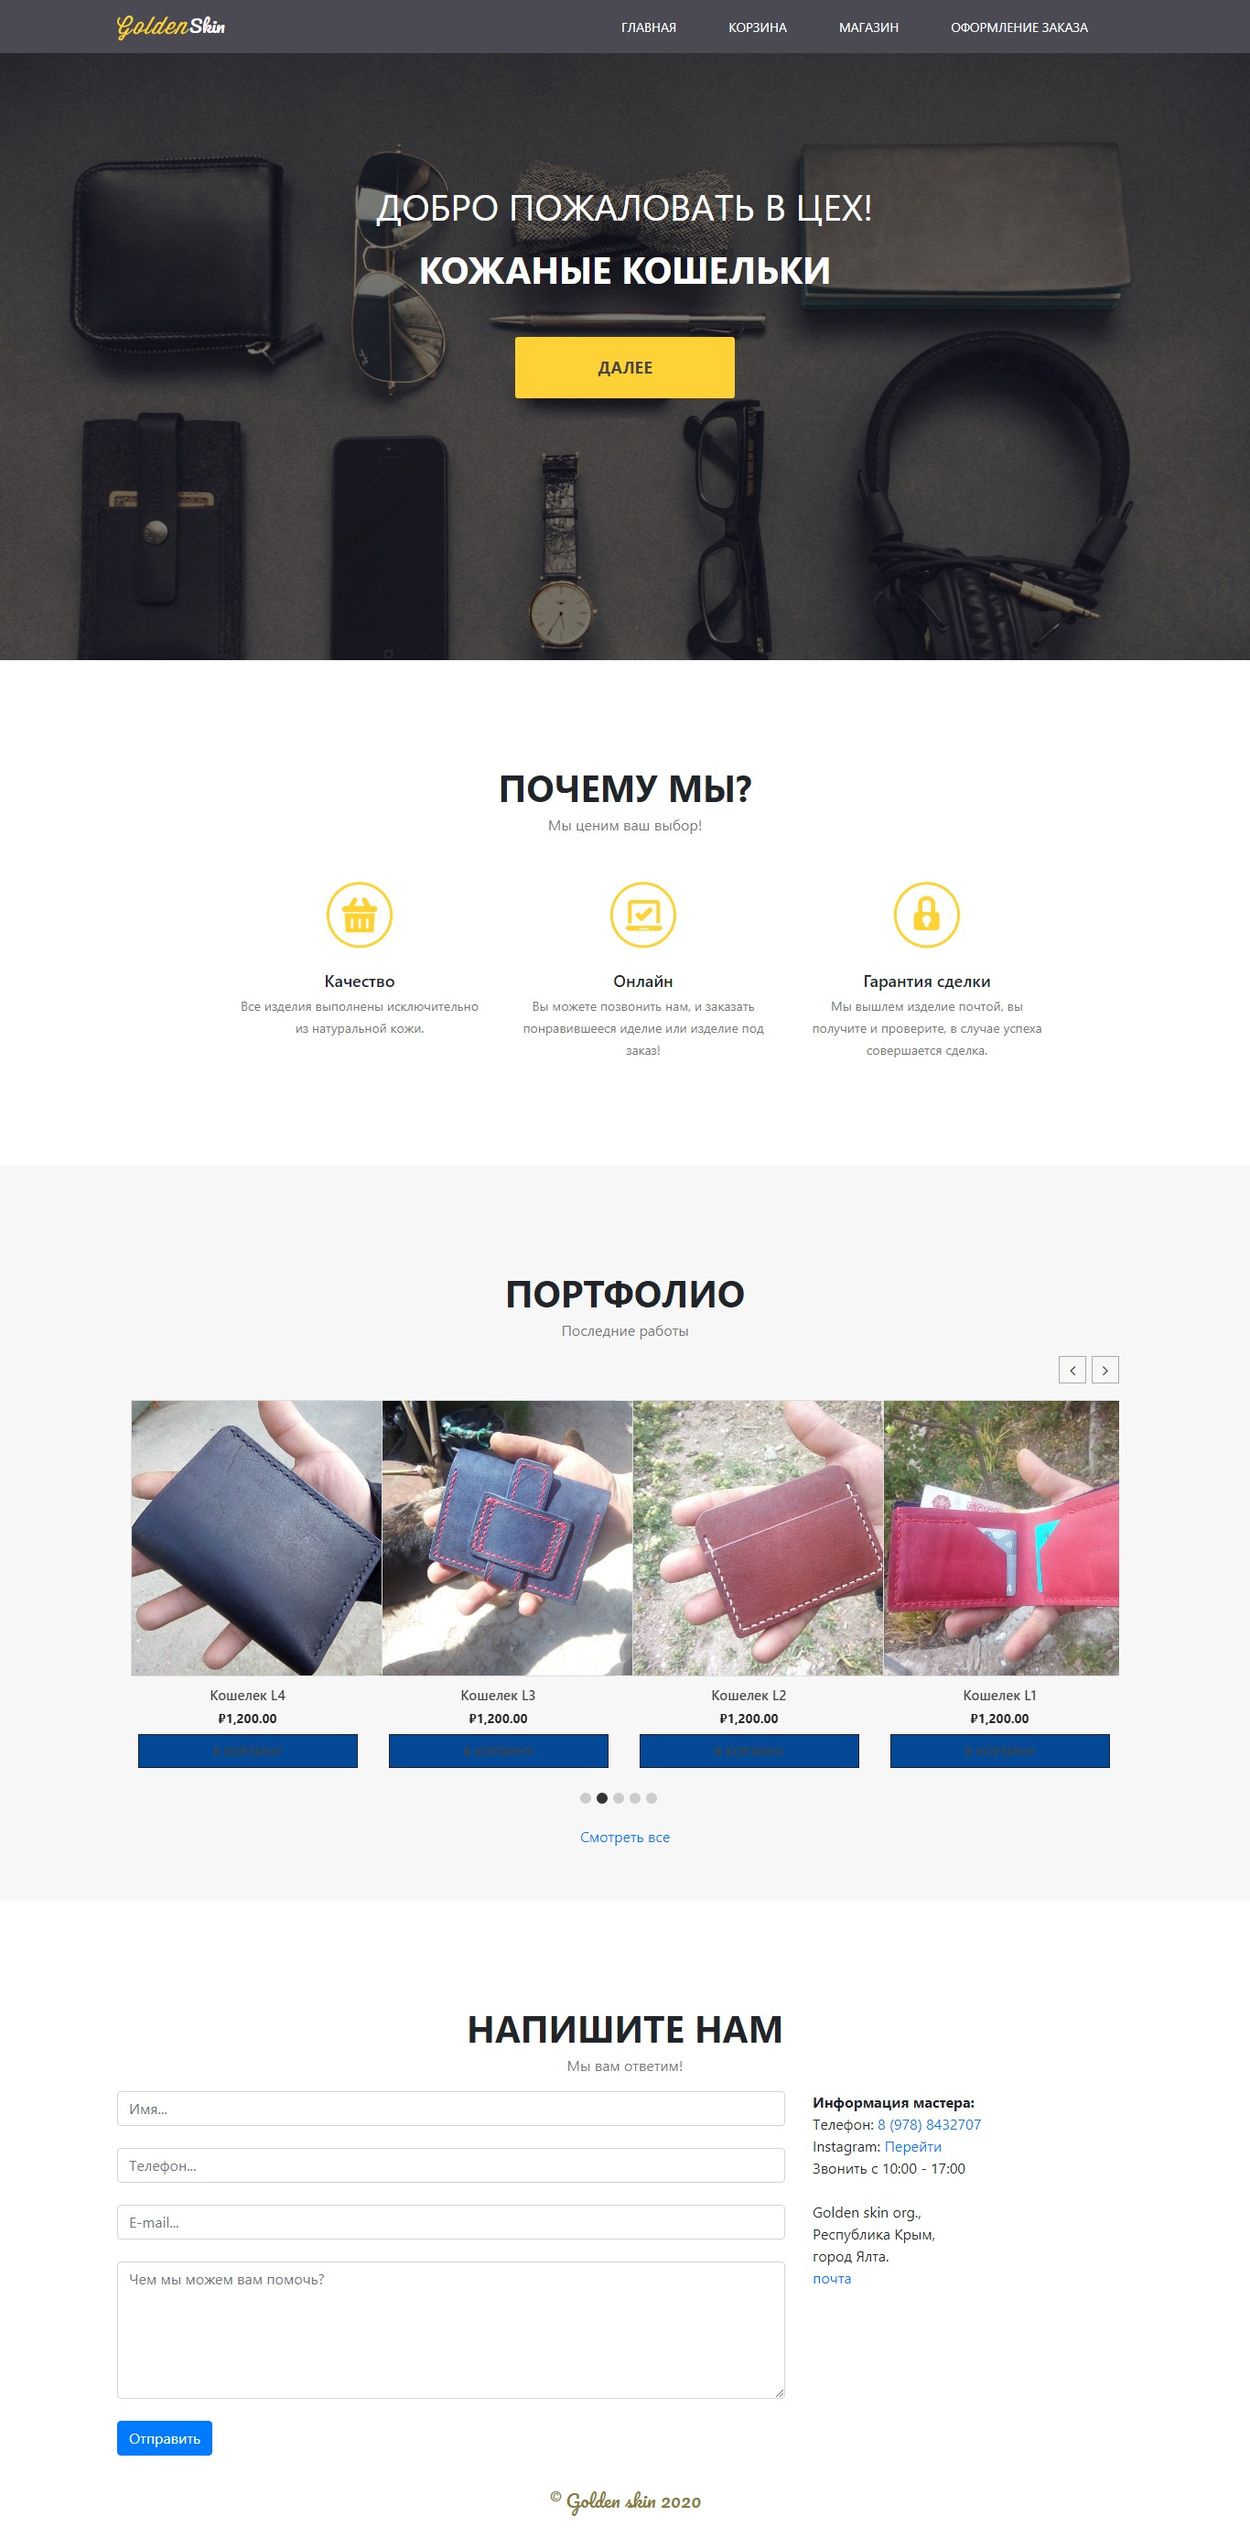
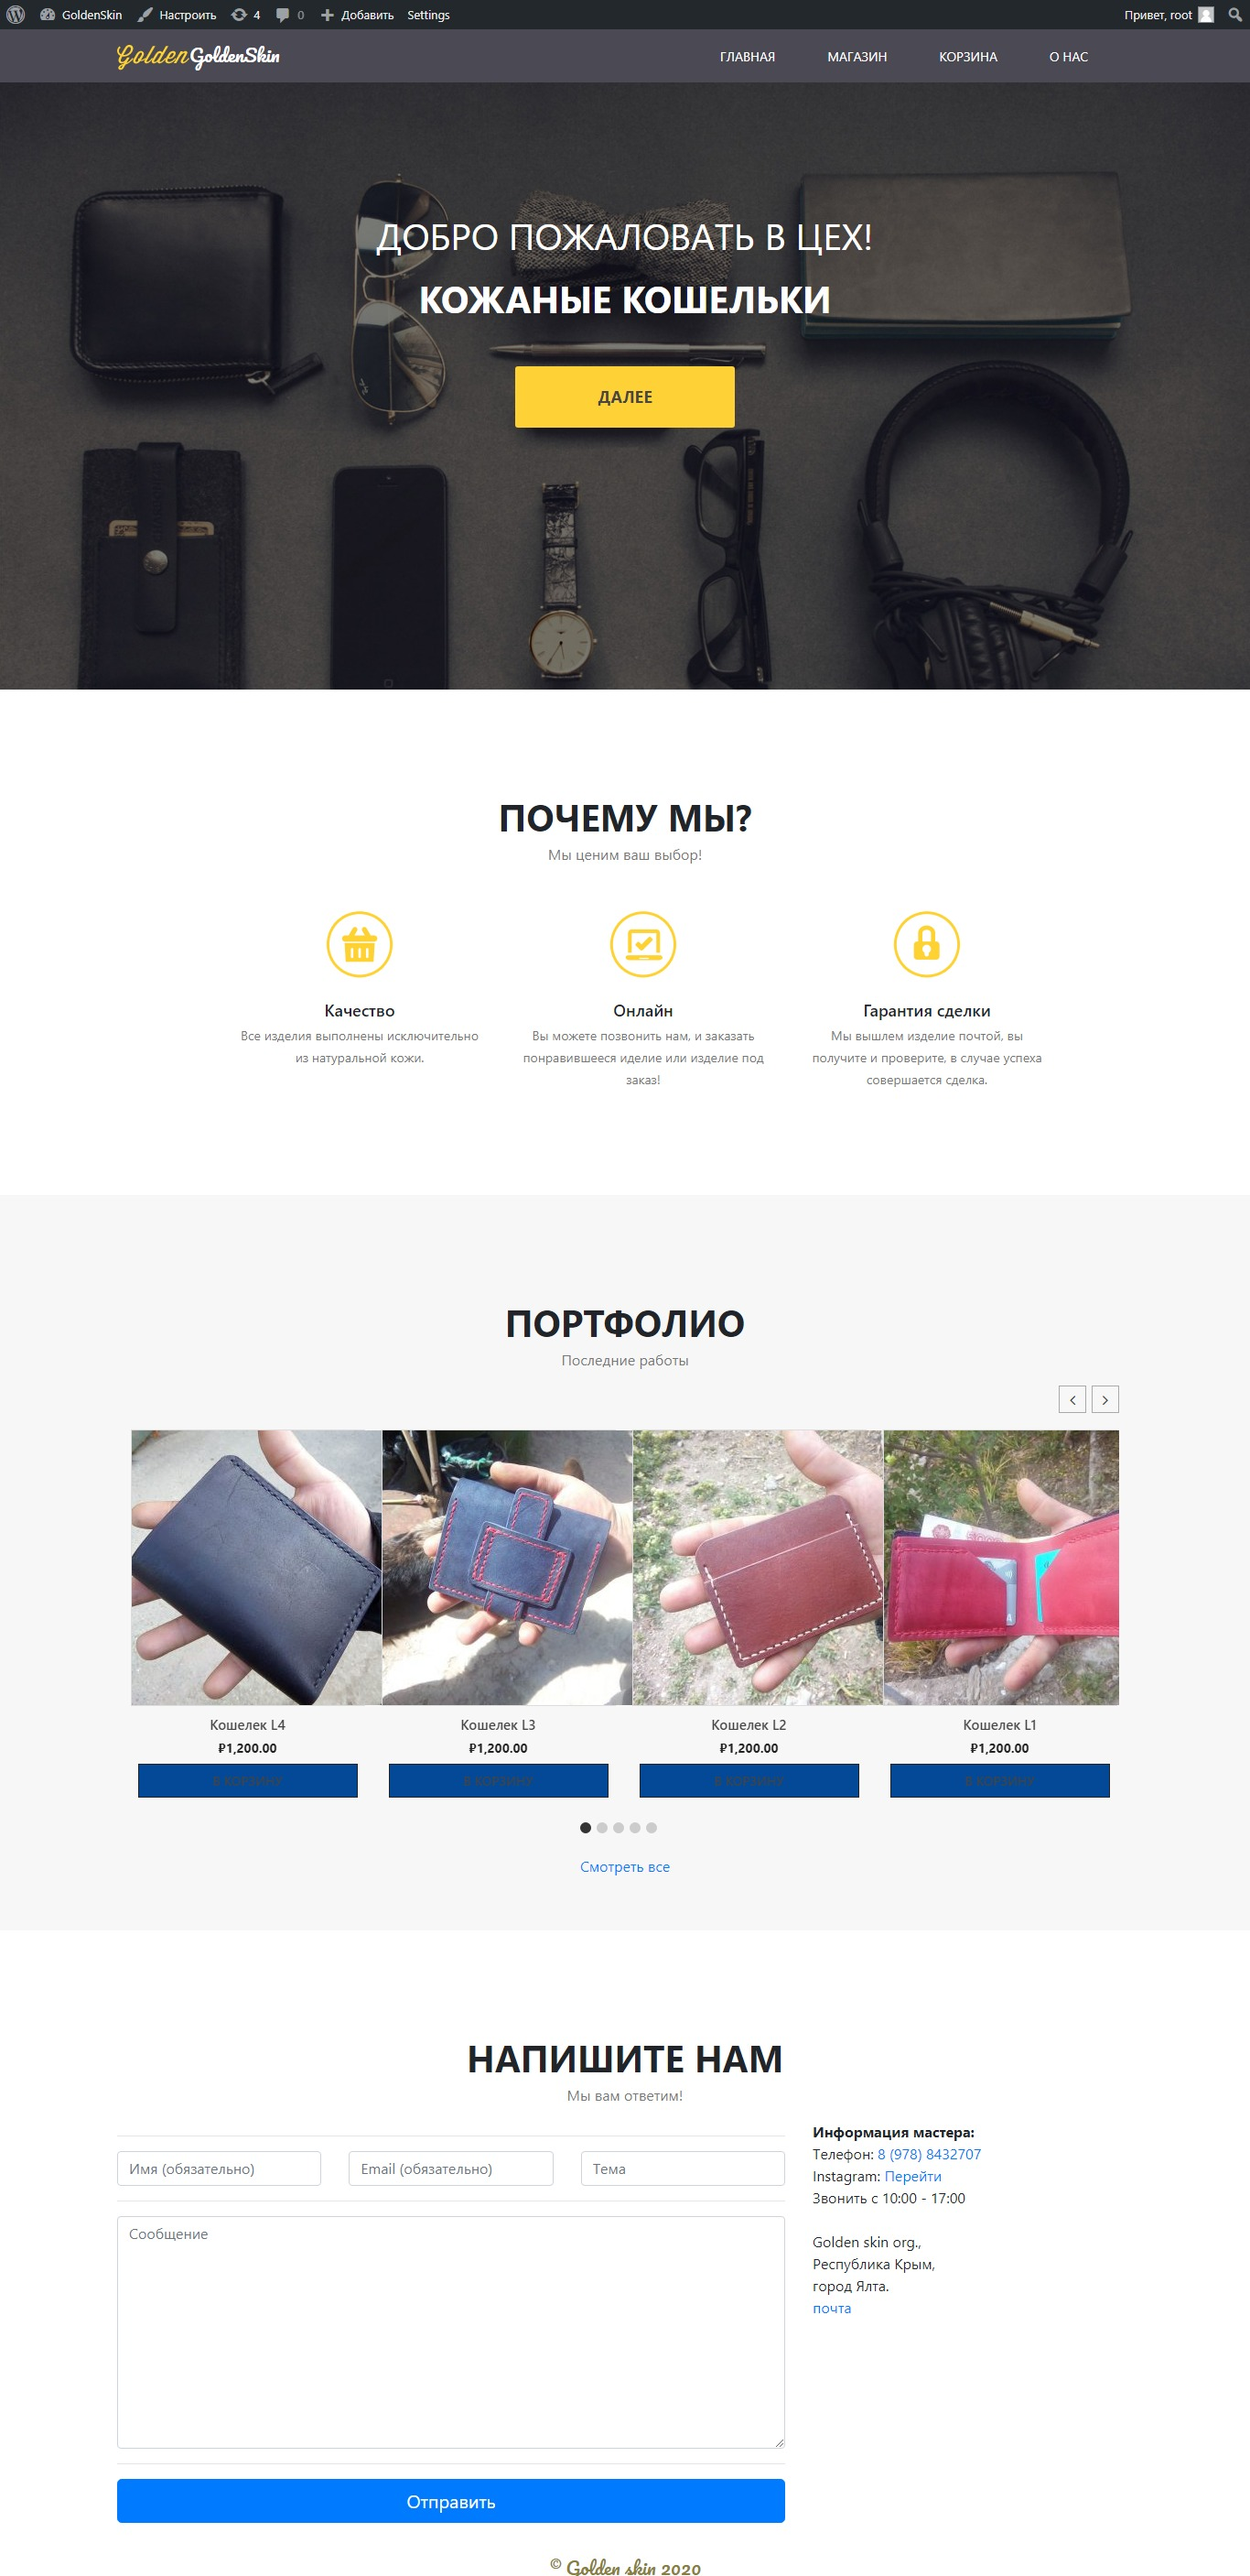
update comment style

diff --git a/style.css b/style.css
@@ -31,18 +31,11 @@ body {
   height: 100%;
   max-height: 1024px;
   background: url(assets/images/first-bg.jpg) no-repeat center top/cover; }
-div#navbarResponsive {
-    text-align: center;
-}
-div#navbarResponsive ul {
-    width: 100%;
-}
+
 .navbar ul a:hover{
     background-color: #4a4454;
 }
-div#navbarResponsive a.nav-link {
-    width: 100%;
-}
+
 footer {
   padding: 10px; }
 .navbar .container, #masthead
@@ -223,8 +216,58 @@ button.pswp__button, button.pswp__button--arrow--left::before, button.pswp__butt
   left: 0;
   z-index: 99999;
   margin: 10px; }
-
+  .post-navigation:after
+  {
+  content: "";
+  clear: both;
+  display: table;
+  }
+  .post-navigation {
+  font-size: 15px;
+    margin-bottom: 10px !important;
+}
+.post-navigation .nav-previous {
+    float: left;
+}
+.post-navigation .nav-next {
+    float: right;
+}
+.post-navigation .nav-previous,
+.post-navigation .nav-next {
+    padding: 5px 10px;
+    border: 1px solid #ccc;
+    border-radius: 5px;
+}
+@media (max-width:768px) {
+.post-navigation {
+  text-align: center;
+}
+.post-navigation .nav-previous,
+.post-navigation .nav-next {
+  float: none;
+    margin-bottom: 7px;
+}
+}
+@media screen and (max-width: 769px) and (min-width: 426px)
+{
+  li.nav-item {
+    float: left;
+}
+  .navbar-nav
+  {
+    display: block !important;
+  }
+}
 @media screen and (max-width: 600px) {
+  div#navbarResponsive a.nav-link {
+    width: 100%;
+}
+  div#navbarResponsive {
+    text-align: center;
+}
+div#navbarResponsive ul {
+    width: 100%;
+}
   .services__item {
     margin-left: 0px;
     width: 270px;
@@ -543,7 +586,6 @@ max-width: unset;
 .nav-links {
     margin: 0 auto;
     padding: 15px;
-    border-bottom: 1px solid gray;
 }
 .woocommerce #respond input#submit, .woocommerce a.button, .woocommerce button.button, .woocommerce input.button {
     width: 100%;
@@ -552,4 +594,54 @@ max-width: unset;
 .woocommerce .woocommerce-ordering select {
     padding: 5px;
     border-radius: 90px;
+}
+div#comments {
+    background-color: #eff5bd;
+    padding: 20px;
+    max-width: 1024px;
+    margin: 0 auto;
+}
+div#comments input {
+    width: 100%;
+}
+.page-numbers {
+  display: inline-block;
+  padding: 5px 10px;
+  margin: 0 2px 0 0;
+  border: 1px solid #eee;
+  line-height: 1;
+  text-decoration: none;
+  border-radius: 2px;
+  font-weight: 600;
+}
+.page-numbers.current,
+a.page-numbers:hover {
+  background: #f9f9f9;
+}
+@media screen and (max-width: 768px){
+.wpcf7 #Personal-Details, .wpcf7 #Education, .wpcf7 #Profession, .wpcf7 #To-Teach, .wpcf7 #Timings, .wpcf7 #Colscol, .wpcf7 #Upload {
+height:auto;
+padding: 20px;
+}
+#Teacher-column #left {
+width: 100%;
+float: none;
+margin-bottom: 20px;
+}
+
+.input-text, input[type=email], input[type=password], input[type=search], input[type=tel], input[type=text], input[type=url], textarea {
+width: 100%;
+}
+
+span.wpcf7-list-item {
+display: block;
+margin: 20px 0 0 1em;
+}
+
+.wpcf7 #Upload p{
+line-height:21px;
+}
+}
+form.wpcf7-form {
+    float: right;
 }

diff --git a/index.php b/index.php
@@ -77,13 +77,8 @@
             </div>
             <div class="row">
                <div class="col-md-8">
-                  <form method="post">
-                     <input class="form-control" name="name" placeholder="Имя..." /><br />
-                     <input class="form-control" name="phone" placeholder="Телефон..." /><br />
-                     <input class="form-control" name="email" placeholder="E-mail..." /><br />
-                     <textarea class="form-control" name="text" placeholder="Чем мы можем вам помочь?" style="height:150px;"></textarea><br />
-                     <input class="btn btn-primary" type="submit" value="Отправить" /><br /><br />
-                  </form>
+<?php //contact form 7
+echo do_shortcode( '[contact-form-7 id="71" title="Обратная связь"]' );  ?>
                </div>
                <div class="col-md-4">
                   <b>Информация мастера:</b> <br />

diff --git a/single.php b/single.php
@@ -13,8 +13,8 @@ get_header();
 
 			the_post_navigation(
 				array(
-					'prev_text' => '<span class="nav-subtitle">' . esc_html__( 'Previous:', 'goldenskin' ) . '</span> <span class="nav-title">%title</span>',
-					'next_text' => '<span class="nav-subtitle">' . esc_html__( 'Next:', 'goldenskin' ) . '</span> <span class="nav-title">%title</span>',
+					'prev_text' => '<span class="nav-subtitle">' . esc_html__( 'Назад:', 'goldenskin' ) . '</span> <span class="nav-title">%title</span>',
+					'next_text' => '<span class="nav-subtitle">' . esc_html__( 'Далее:', 'goldenskin' ) . '</span> <span class="nav-title">%title</span>',
 				)
 			);
 

diff --git a/functions.php b/functions.php
@@ -124,6 +124,13 @@ if ( ! $menu_exists ) {
 endif;
 add_action( 'after_setup_theme', 'goldenskin_setup' );
 
+
+function prefix_disable_comment_url($fields) { 
+    unset($fields['url']);
+    return $fields;
+}
+add_filter('comment_form_default_fields','prefix_disable_comment_url');
+
 function themename_customize_register($wp_customize){
         $wp_customize->add_setting( 'setting_welcome', array(
             'default'        => 'Добро пожаловать в цех!',

diff --git a/template-parts/content.php b/template-parts/content.php
@@ -52,7 +52,7 @@
 		?>
 	</div><!-- .entry-content -->
 
-	<footer class="entry-footer">
-		<?php goldenskin_entry_footer(); ?>
-	</footer><!-- .entry-footer -->
+	<!--<footer class="entry-footer">
+		<?php //goldenskin_entry_footer(); ?>
+	</footer> .entry-footer -->
 </article><!-- #post-<?php the_ID(); ?> -->

diff --git a/comments.php b/comments.php
@@ -19,7 +19,7 @@ if ( post_password_required() ) {
 	return;
 }
 ?>
-
+<hr/>
 <div id="comments" class="comments-area">
 
 	<?php

diff --git a/README.md b/README.md
@@ -2,10 +2,13 @@ Responsive and cross-browser compatibility web design.
 How to install (need Wordpress latest version)
 ===
 1. Download->install->activate theme.
-2. Install 2 plugins https://docs.woocommerce.com/documentation/plugins/woocommerce/getting-started/installation-and-updating/ and "https://wordpress.org/plugins/woo-product-slider/"
+2. Install 3 plugins https://docs.woocommerce.com/documentation/plugins/woocommerce/getting-started/installation-and-updating/ and "https://wordpress.org/plugins/woo-product-slider/", https://wordpress.org/plugins/contact-form-7/
 3. Setting up your website params. Create woocommerce products. Paste the PHP code "slider" into your template "index.php" file.
+4. Create new contact form 7 FORM, paste here html from Contactform7.txt, and put into index.php form code  with u id. for exampe: [contact-form-7 id="71" title="Form"]
 4. Enjoy.
 Good luck!
+
+
 
 ![Тема](fullscreen.png)
 <h1>Адаптивность</h1>
